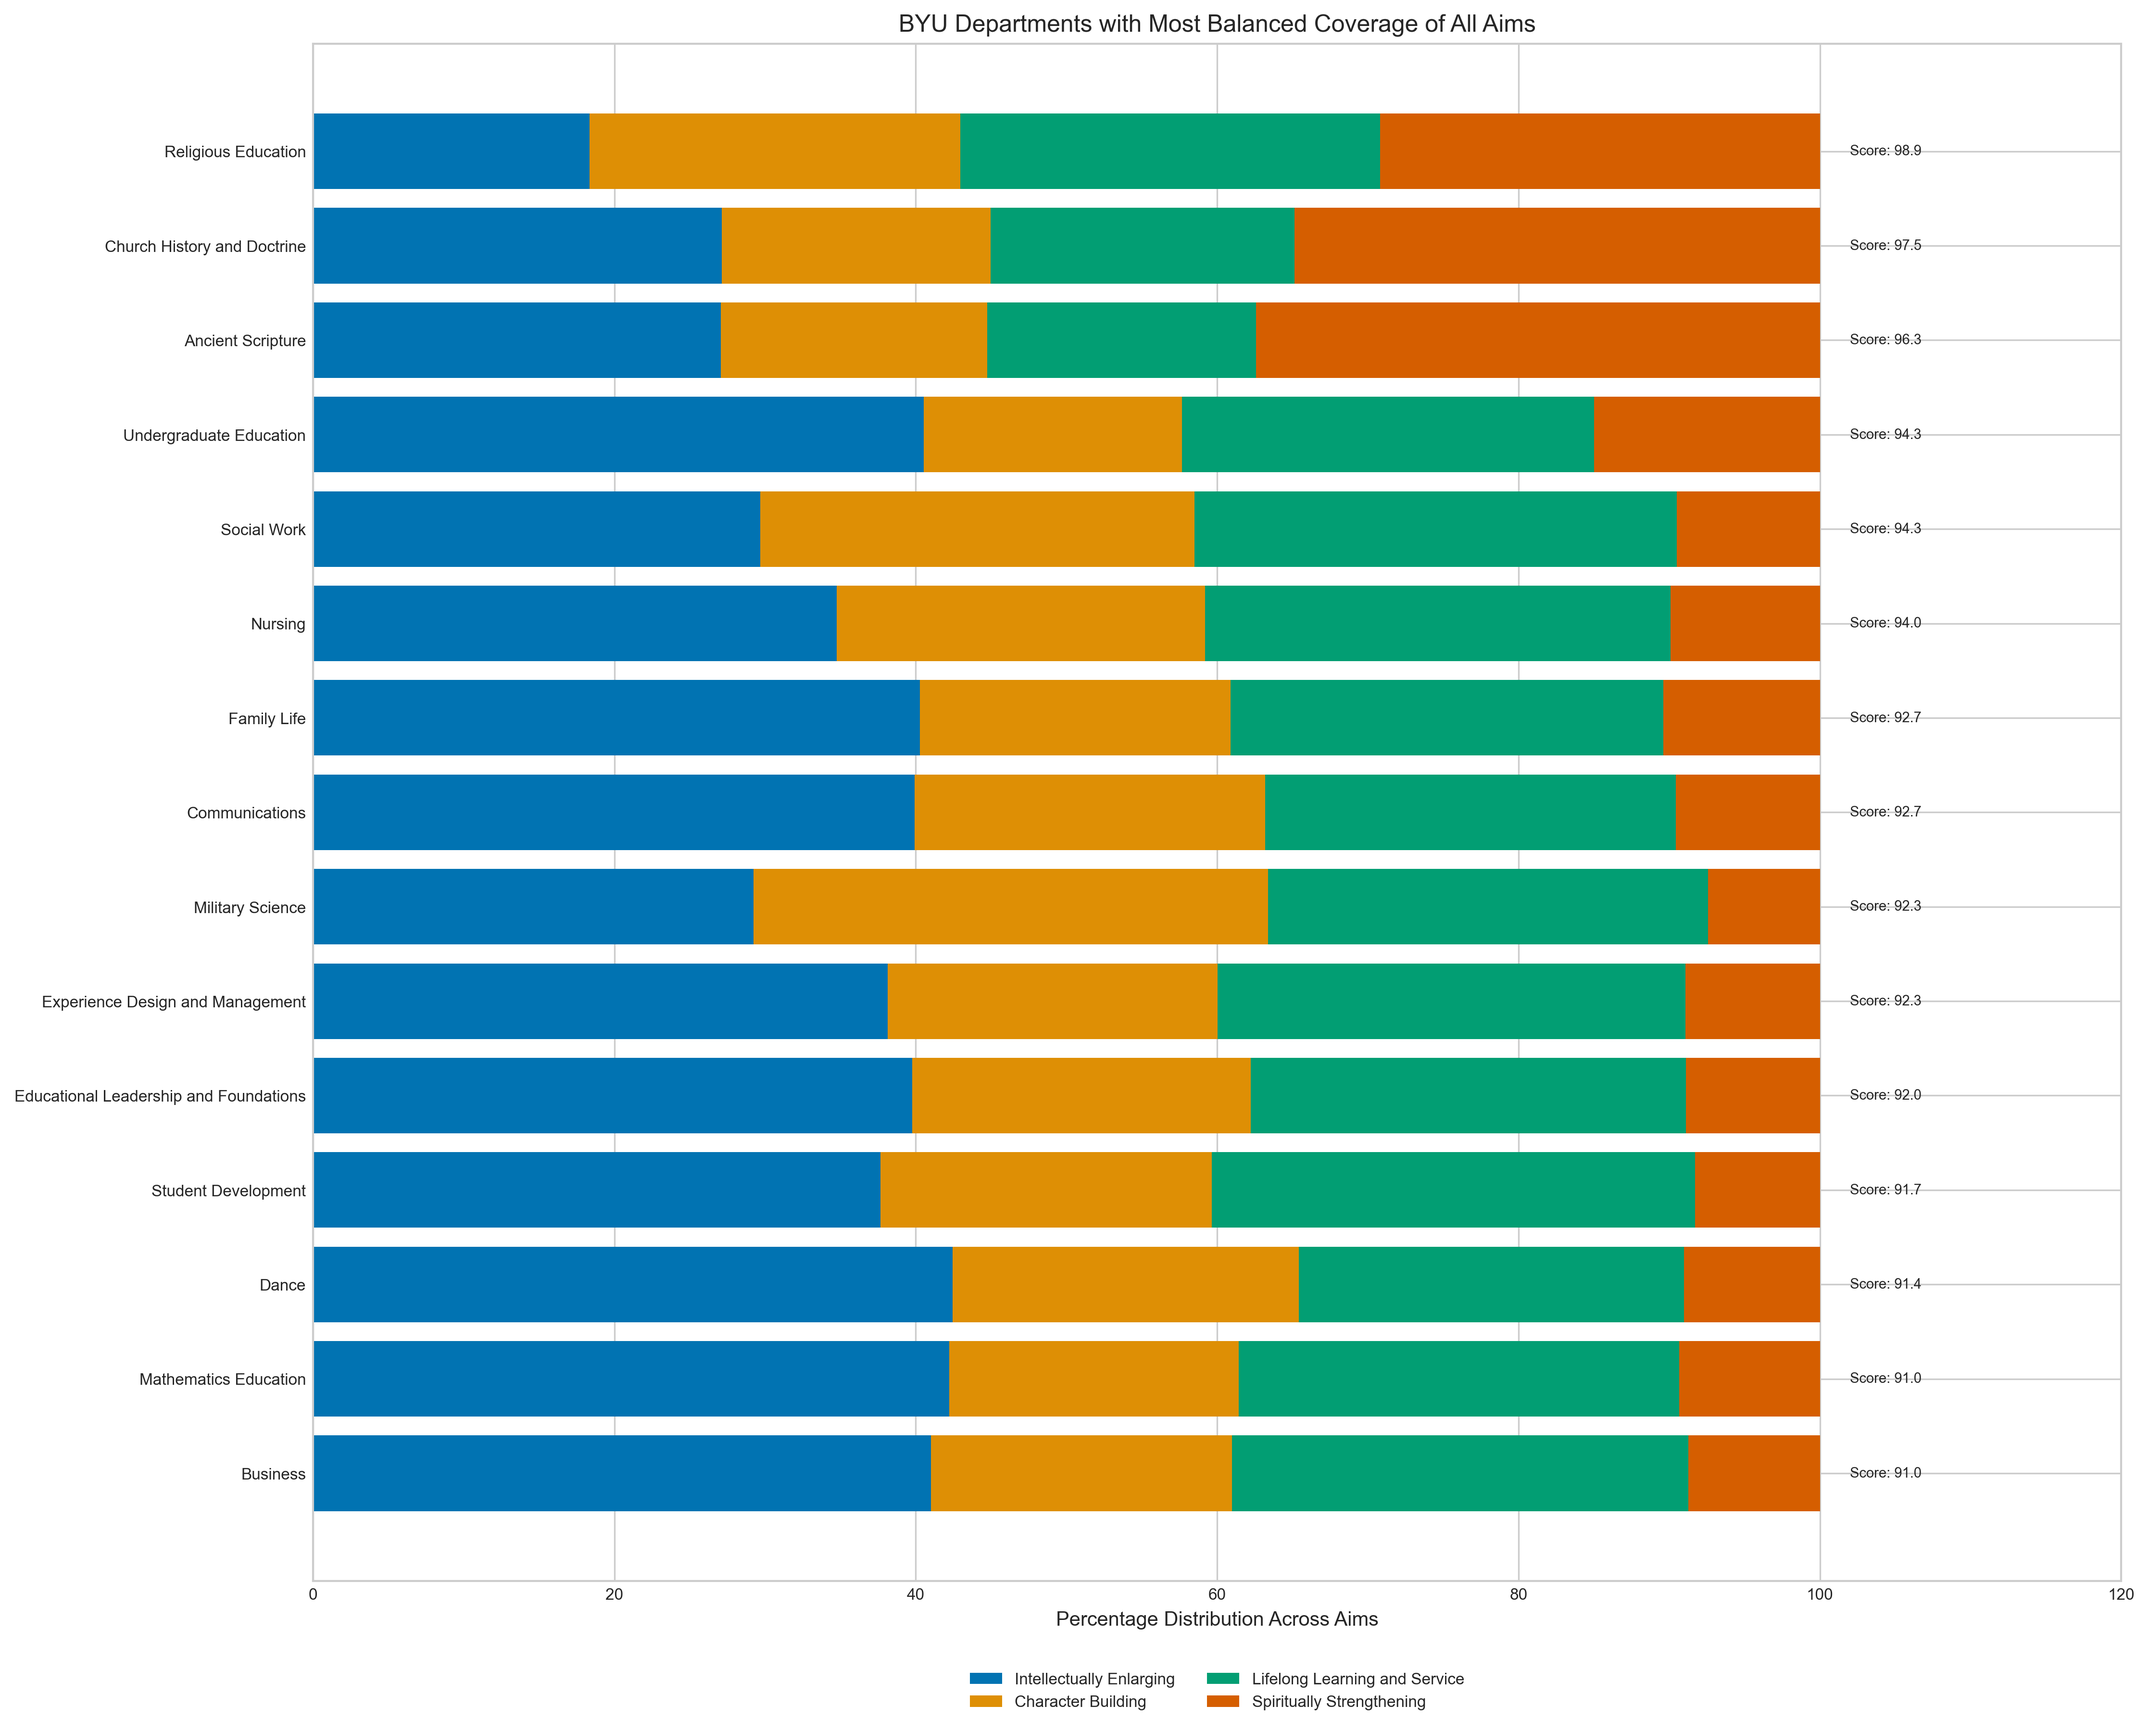
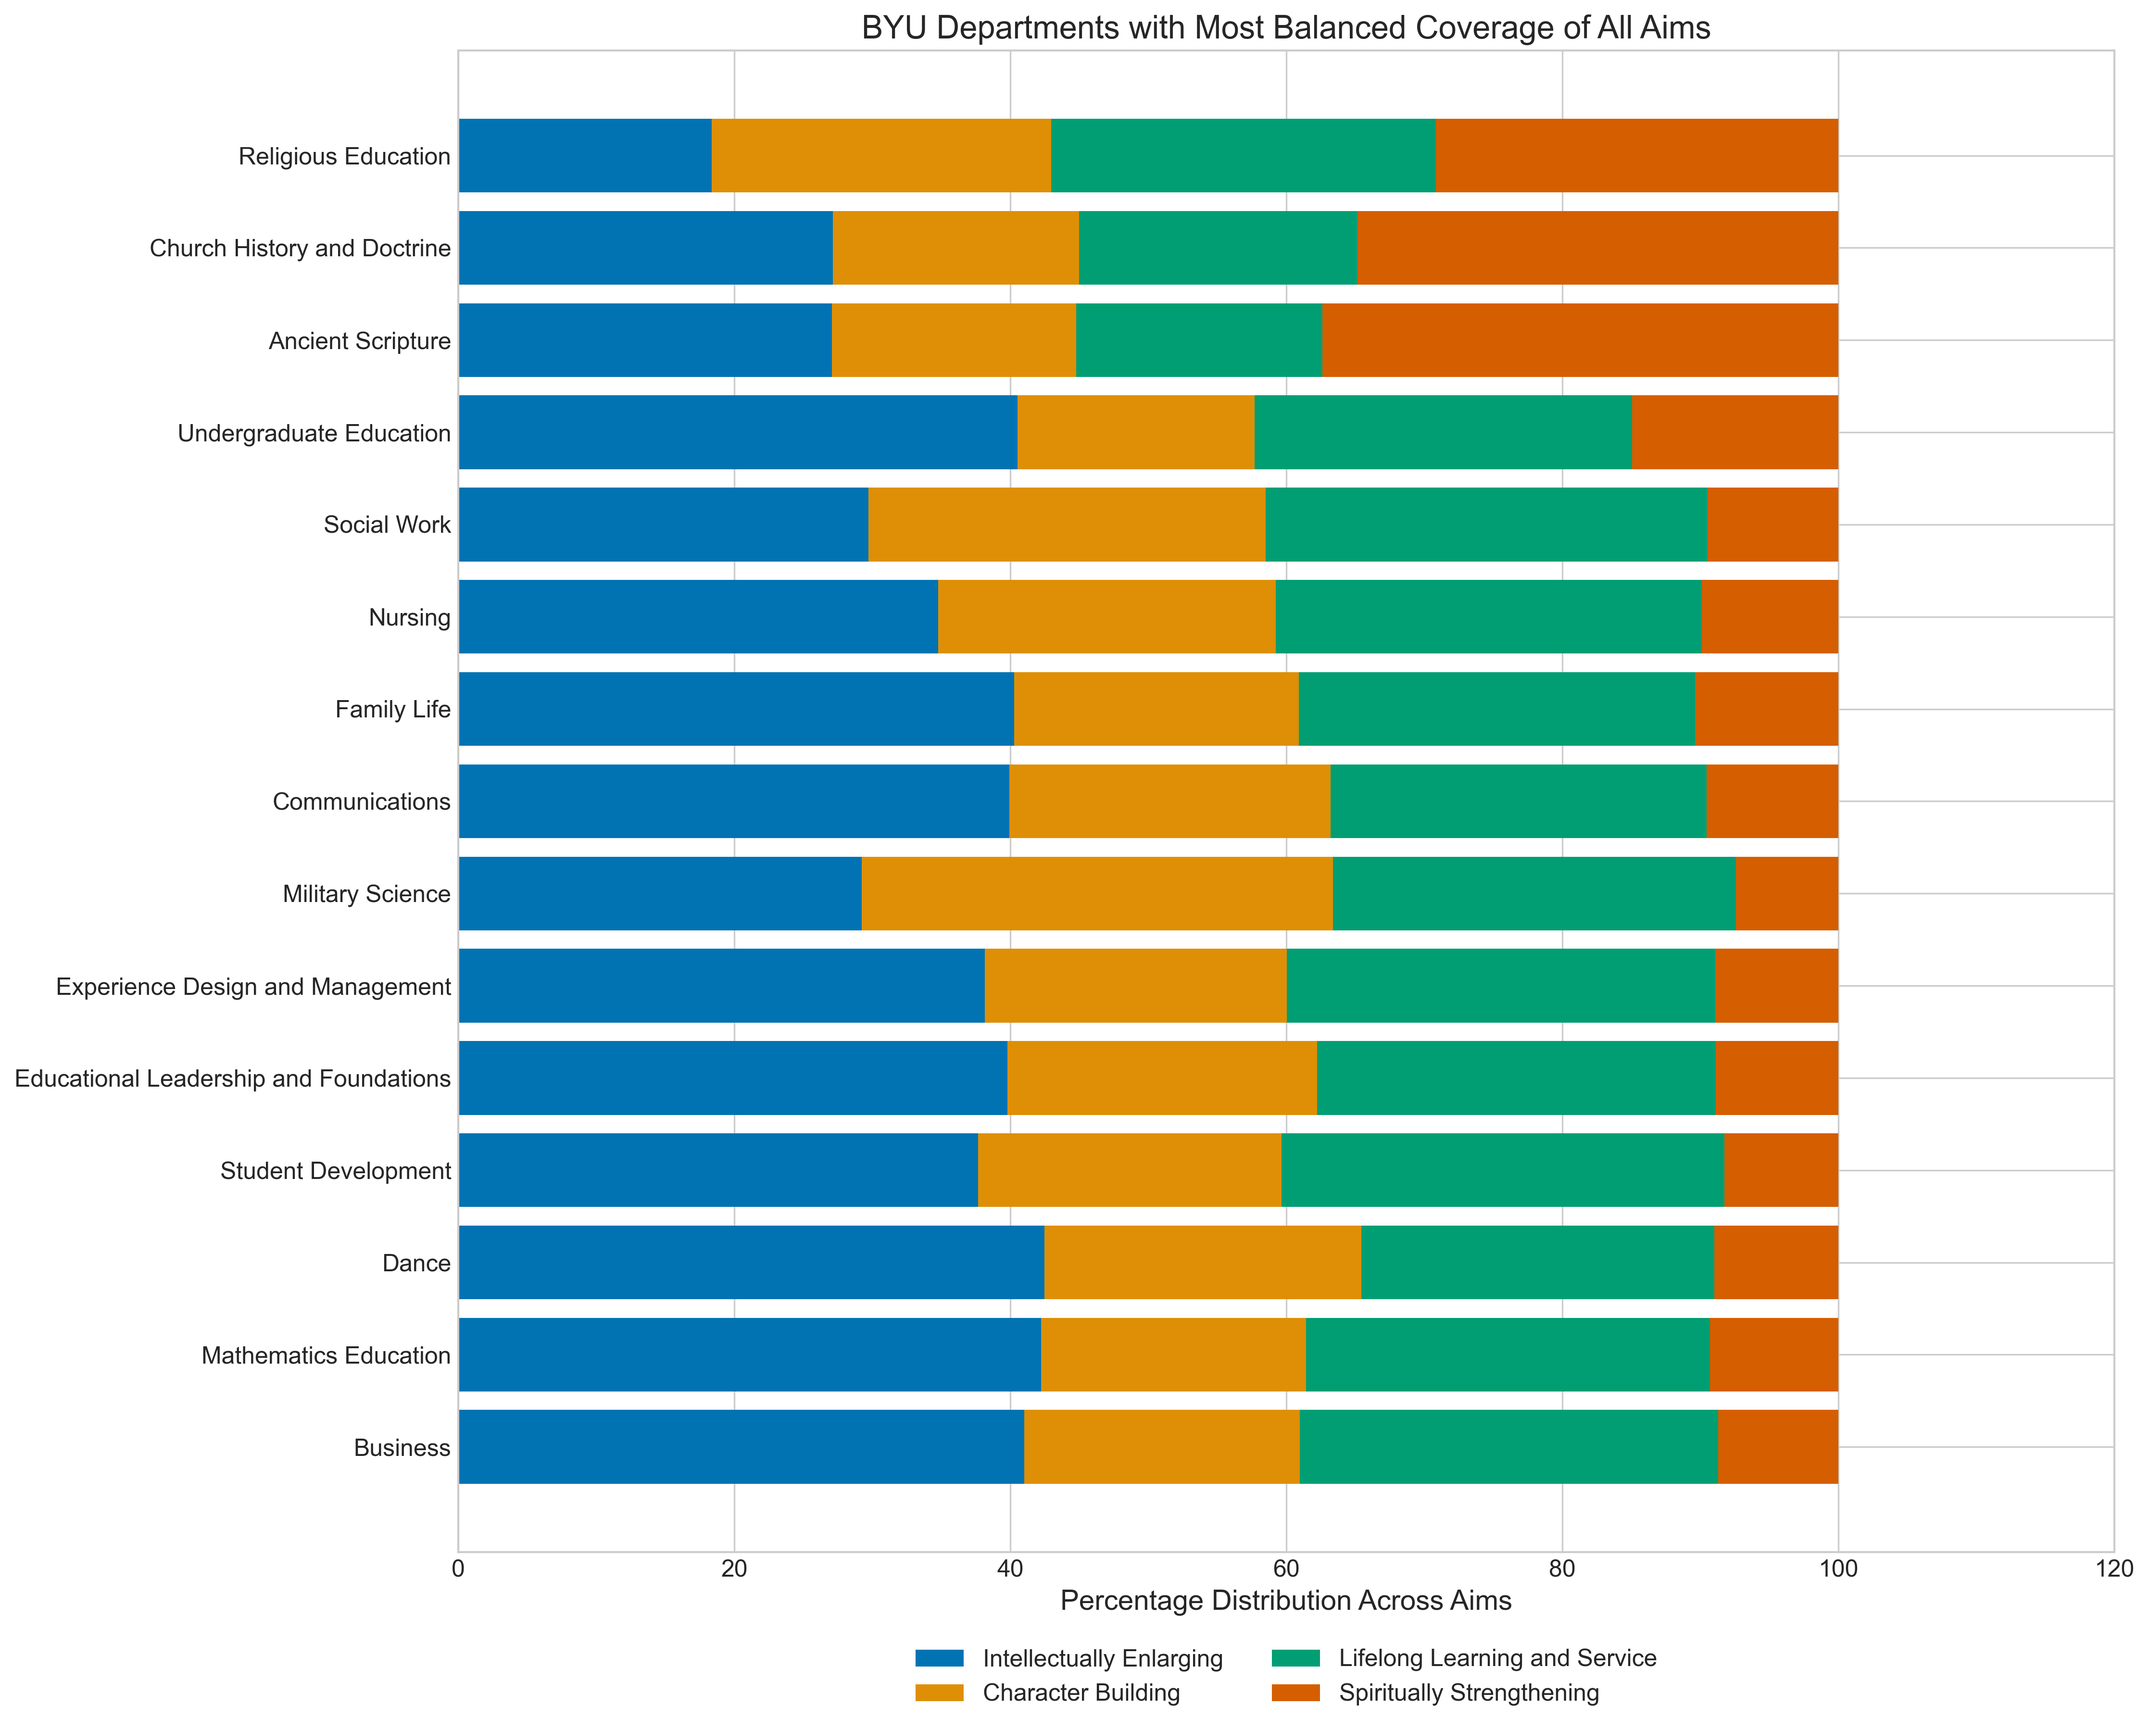
more revisions to chart

diff --git a/generate_blog_visuals.py b/generate_blog_visuals.py
@@ -261,21 +261,21 @@ def generate_college_ranking_bar(college_data, df):
             i,
             f"Score: {ie_percent:.1f}",
             va='center',
-            fontsize=9  # Increased score font size
+            fontsize=11  # Increased score font size again
         )
     
     # Set chart properties with larger fonts
-    plt.title('BYU Colleges Ranked by Focus on Intellectual Enlargement', fontsize=14) # Increased title size
-    plt.xlabel('Percentage Distribution Across Aims', fontsize=12) # Increased label size
+    plt.title('BYU Colleges Ranked by Focus on Intellectual Enlargement', fontsize=16) # Increased title size again
+    plt.xlabel('Percentage Distribution Across Aims', fontsize=14) # Increased label size again
     plt.xlim(0, 120)  # Reduce the x-axis limit
     plt.grid(True, linestyle='--', alpha=0.7, which='both', axis='x')
     
     # Adjust y-axis tick label font size 
-    plt.yticks(fontsize=10) # Increased tick size
-    plt.xticks(fontsize=10) # Increased tick size
+    plt.yticks(fontsize=12) # Increased tick size again
+    plt.xticks(fontsize=12) # Increased tick size again
     
     # Position legend better to avoid overlap
-    plt.legend(loc='upper center', bbox_to_anchor=(0.5, -0.05), ncol=2, fontsize=10) # Increased legend size
+    plt.legend(loc='upper center', bbox_to_anchor=(0.5, -0.05), ncol=2, fontsize=12) # Increased legend size again
     
     # Add more space at the bottom for the legend
     plt.subplots_adjust(bottom=0.15)
@@ -392,26 +392,26 @@ def generate_balanced_departments_chart(dept_data, df):
         bottom += values
     
     # Add wholistic scores as text with larger font
-    for i, (_, row) in enumerate(plot_depts.iterrows()):
-        plt.text(
-            102,  # Move closer to the bars
-            i,
-            f"Score: {row['wholistic_score']:.1f}",
-            va='center',
-            fontsize=9  # Increased score font size
-        )
+    # for i, (_, row) in enumerate(plot_depts.iterrows()):
+    #     plt.text(
+    #         102,  # Move closer to the bars
+    #         i,
+    #         f"Score: {row['wholistic_score']:.1f}",
+    #         va='center',
+    #         fontsize=11  # Increased score font size again
+    #     )
     
     # Set chart properties with larger fonts
-    plt.title('BYU Departments with Most Balanced Coverage of All Aims', fontsize=14) # Increased title size
-    plt.xlabel('Percentage Distribution Across Aims', fontsize=12) # Increased label size
+    plt.title('BYU Departments with Most Balanced Coverage of All Aims', fontsize=16) # Increased title size again
+    plt.xlabel('Percentage Distribution Across Aims', fontsize=14) # Increased label size again
     plt.xlim(0, 120)  # Reduce the x-axis limit
     
     # Adjust y-axis tick label font size
-    plt.yticks(fontsize=10) # Increased tick size
-    plt.xticks(fontsize=10) # Increased tick size
+    plt.yticks(fontsize=12) # Increased tick size again
+    plt.xticks(fontsize=12) # Increased tick size again
     
     # Position legend better to avoid overlap
-    plt.legend(loc='upper center', bbox_to_anchor=(0.5, -0.05), ncol=2, fontsize=10) # Increased legend size
+    plt.legend(loc='upper center', bbox_to_anchor=(0.5, -0.05), ncol=2, fontsize=12) # Increased legend size again
     
     # Add more space at the bottom for the legend
     plt.subplots_adjust(bottom=0.15)
